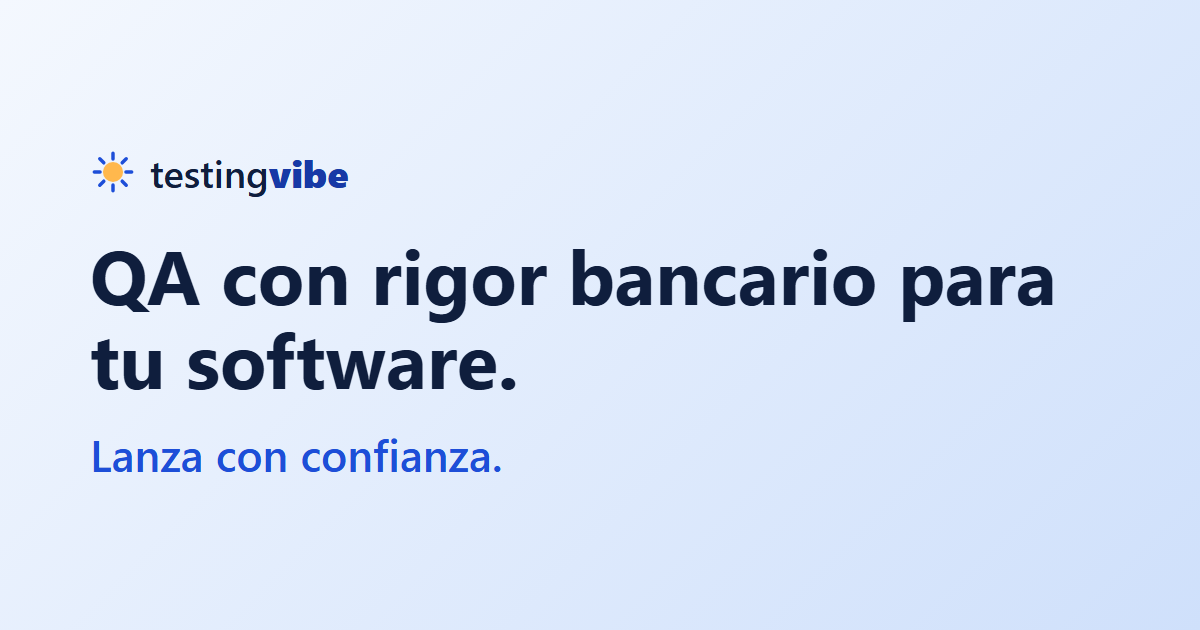
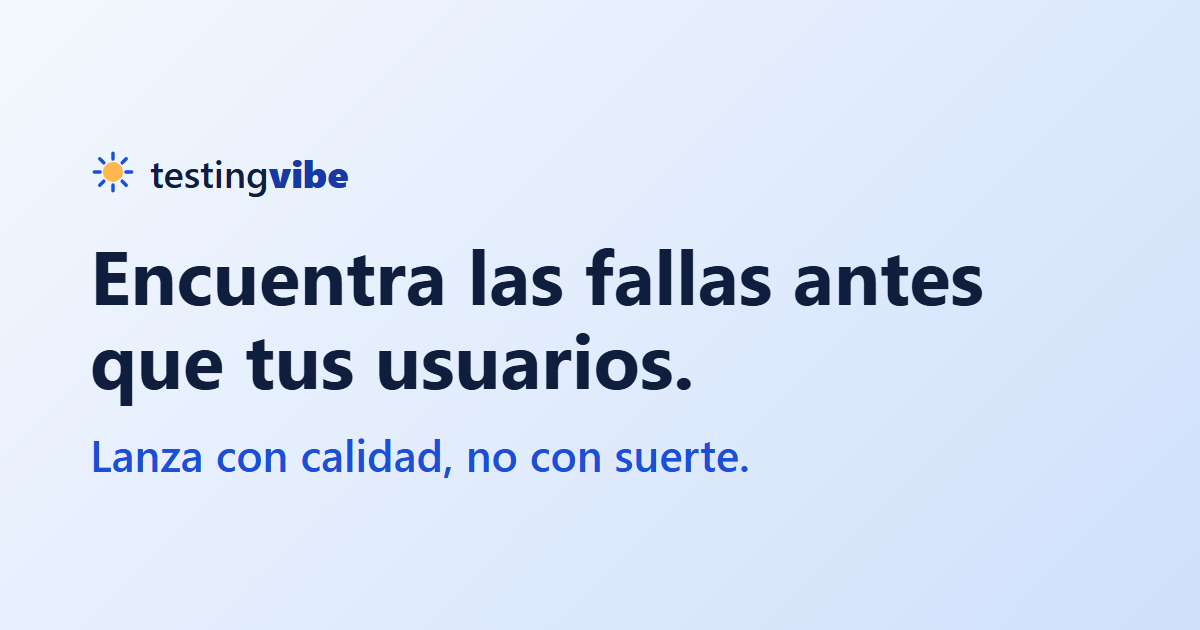
Título de pestaña, texto al compartir e imagen alineados con la portada nueva

Changed region(s): [[0.0617, 0.3921, 0.8942, 0.5127], [0.0617, 0.5127, 0.5858, 0.6635], [0.2467, 0.6937, 0.6167, 0.754]]

diff --git a/index.html b/index.html
@@ -3,7 +3,7 @@
 <head>
 <meta charset="utf-8">
 <meta name="viewport" content="width=device-width, initial-scale=1">
-<title data-i18n="meta.title">TestingVibe — QA con rigor bancario para tu software</title>
+<title data-i18n="meta.title">TestingVibe — Encuentra las fallas antes que tus usuarios</title>
 <meta name="description" content="Pruebas y aseguramiento de calidad para software moderno, con rigor de banca. Revisión de QA para apps, sitios web y plataformas, con o sin IA." data-i18n-attr="content:meta.desc">
 <link rel="canonical" href="https://testingvibe.com/">
 <meta name="theme-color" content="#f4f8fe">
@@ -12,7 +12,7 @@
 <meta property="og:type" content="website">
 <meta property="og:site_name" content="TestingVibe">
 <meta property="og:url" content="https://testingvibe.com/">
-<meta property="og:title" content="TestingVibe — QA con rigor bancario para tu software" data-i18n-attr="content:meta.title">
+<meta property="og:title" content="TestingVibe — Encuentra las fallas antes que tus usuarios" data-i18n-attr="content:meta.title">
 <meta property="og:description" content="Pruebas y aseguramiento de calidad para software moderno, con rigor de banca. Lanza con confianza." data-i18n-attr="content:meta.ogdesc">
 <meta property="og:image" content="https://testingvibe.com/img/og-image.png">
 <meta property="og:image:width" content="1200">

diff --git a/js/i18n.js b/js/i18n.js
@@ -1,7 +1,7 @@
 /* ES es el idioma base (vive en el HTML: SEO y funciona sin JS). Aquí solo está EN. */
 (function () {
   var EN = {
-    "meta.title": "TestingVibe — Bank-grade QA for your software",
+    "meta.title": "TestingVibe — Find the flaws before your users do",
     "meta.desc": "Testing and quality assurance for modern software, with banking-grade rigor. QA review for apps, websites and platforms, with or without AI.",
     "meta.ogdesc": "Testing and quality assurance for modern software, with banking-grade rigor. Launch with confidence.",
     "a11y.skip": "Skip to content",
